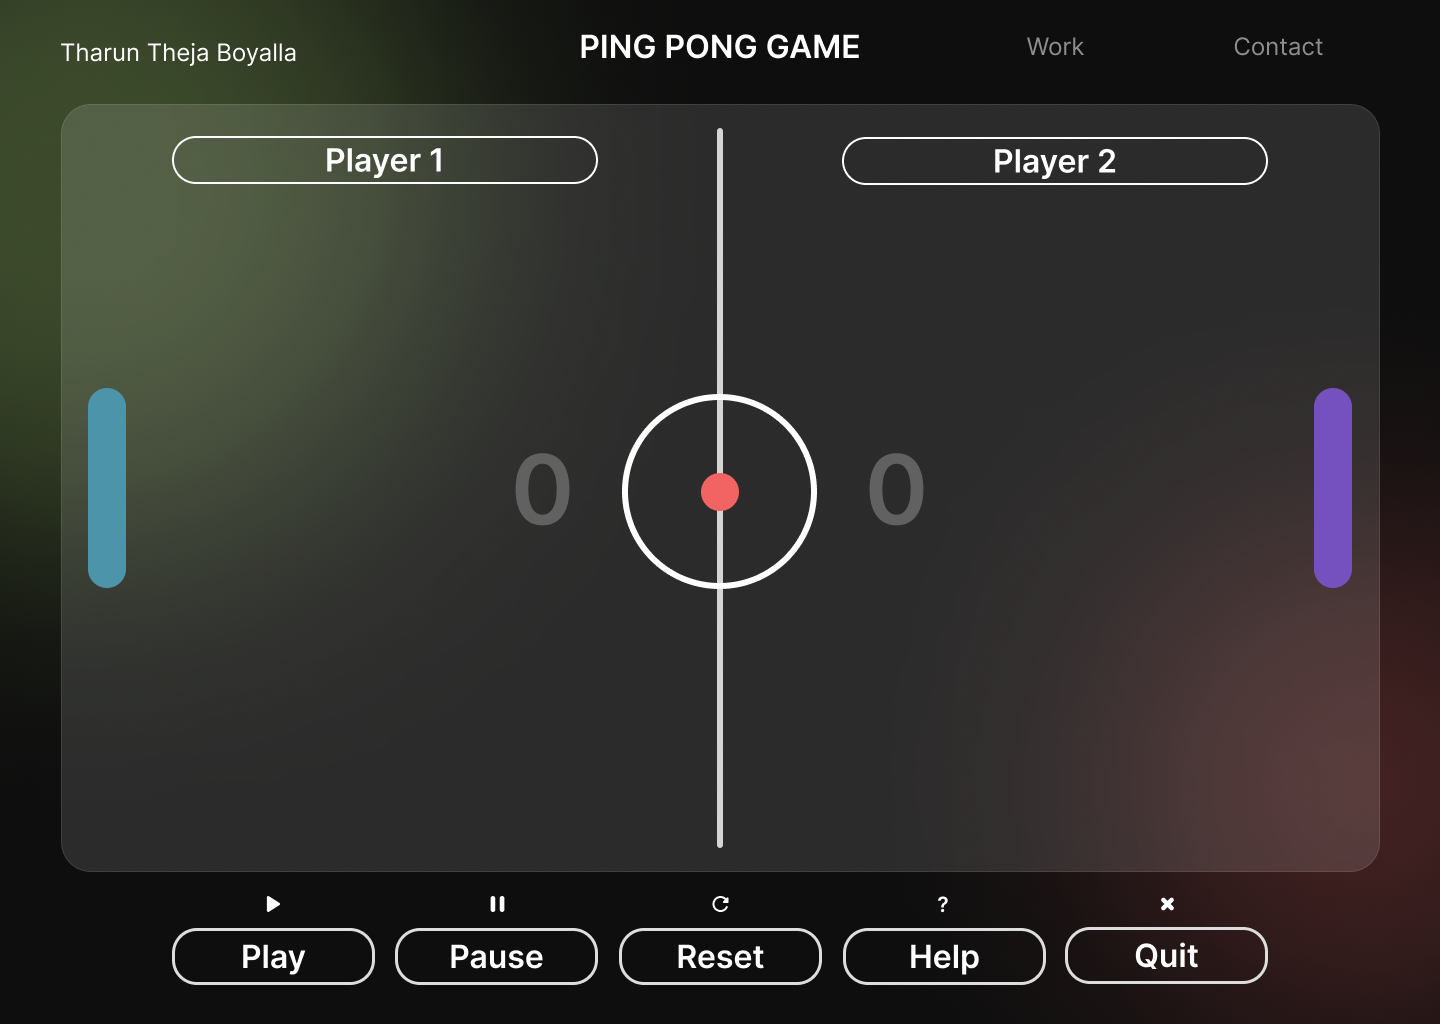
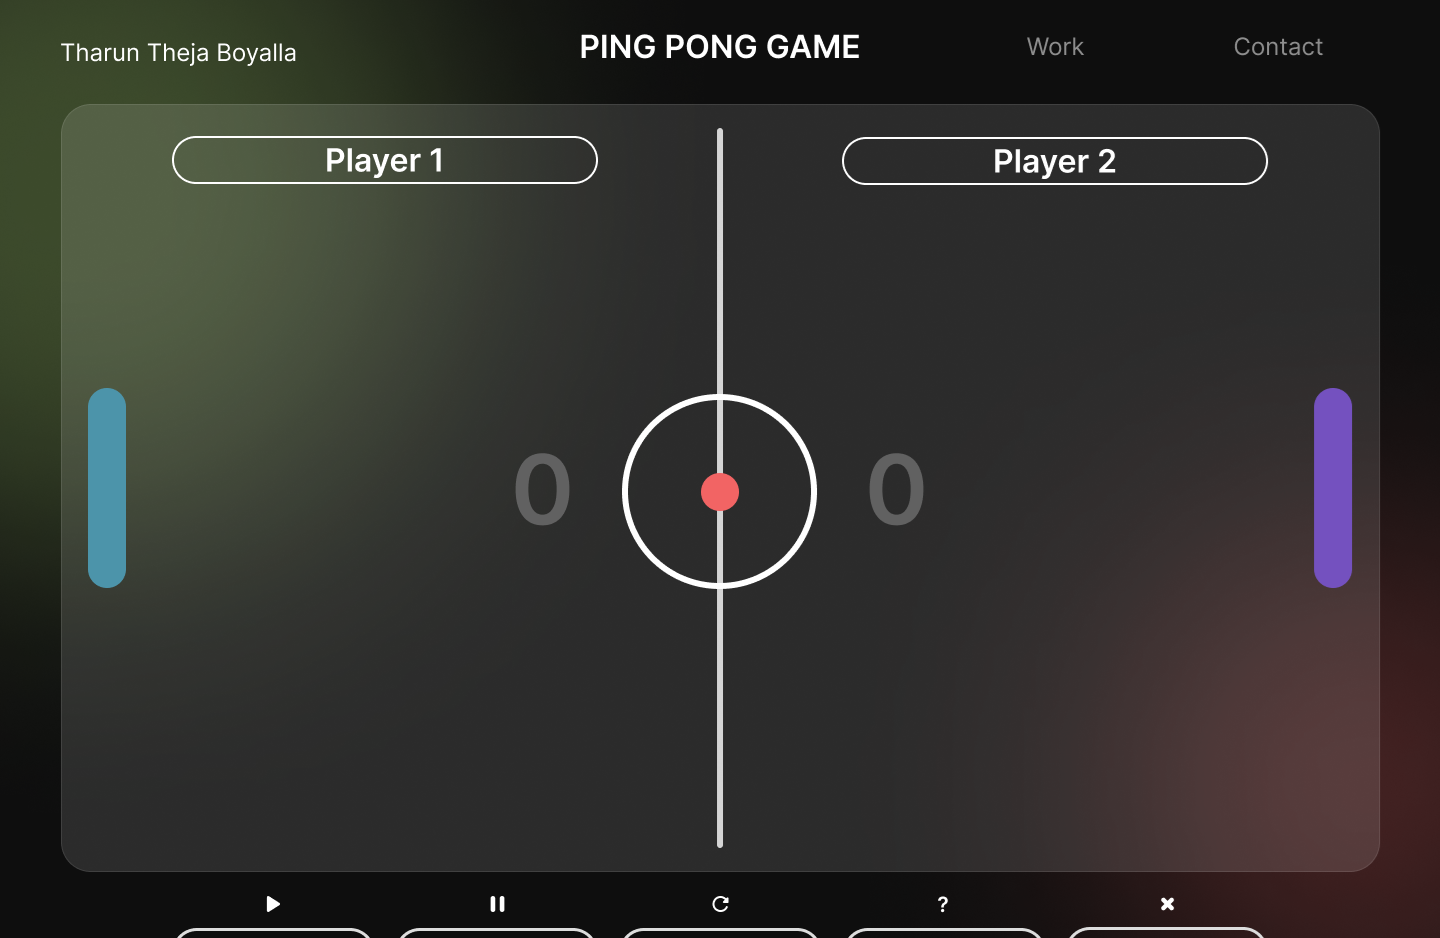
#18 Projects Functionality and Scroll to top

diff --git a/portfolio/src/Projects.jsx b/portfolio/src/Projects.jsx
@@ -1,8 +1,14 @@
-import React from "react";
+import React, { useState } from "react";
 import Heading from "./Heading";
 import Content from "./Content";
 
 function Projects({ projectsData }) {
+  const [selectedSection, setSelectedSection] = useState("Development");
+
+  // Handle dropdown change
+  const handleChange = (event) => {
+    setSelectedSection(event.target.value);
+  };
   return (
     <section className="w-full h-full py-10 sm:py-20 flex">
       <div className="w-full h-full flex flex-col items-center gap-11">
@@ -11,7 +17,12 @@ function Projects({ projectsData }) {
           <div className="w-full flex justify-end">
             <div className="h-8 w-[40%] sm:w-2xs px-4 flex justify-center items-center rounded-full bg-[#F4F4F4]">
               <Content>
-                <select id="filters" className="outline-0">
+                <select
+                  id="filters"
+                  className="outline-0"
+                  value={selectedSection}
+                  onChange={handleChange}
+                >
                   <option value="Development">Development</option>
                   <option value="Design">Design</option>
                   <option value="Video Editing">Video Editing</option>
@@ -19,58 +30,62 @@ function Projects({ projectsData }) {
               </Content>
             </div>
           </div>
-          <div className="w-full flex flex-col sm:grid grid-cols-2 relative gap-5 text-white">
-            {projectsData.map((project, index) => (
-              <div className="w-full grid grid-rows-2 ">
-                <div className="w-full h-full flex justify-center relative items-center rounded-tl-[20px] rounded-tr-[20px] overflow-hidden">
-                  <div className="w-full h-full relative">
-                    <img
-                      src={project.img}
-                      className="w-full h-full object-cover blur-[3px]"
-                      alt="Homepage"
-                    />
-                    <div className="w-full h-full bg-black opacity-45 absolute top-1/2 left-1/2 transform -translate-x-1/2 -translate-y-1/2"></div>
-                    <Heading
-                      key={index}
-                      className="absolute top-1/2 left-1/2 transform -translate-x-1/2 -translate-y-1/2 text-white text-xl font-bold"
-                    >
-                      {project.title}
-                    </Heading>
-                  </div>
-                </div>
-
-                <div
-                  className="w-full h-fit flex flex-col py-6 px-5 gap-5 rounded-bl-[20px] rounded-br-[20px]"
-                  style={{ backgroundColor: project.tilecolor }}
-                >
-                  <div className="w-11/12 sm:w-full md:w-[80%] xl:w-[60%] flex text-xs font-semibold justify-between">
-                    {project.info.map((info, index) => (
-                      <div
-                        key={index}
-                        className="w-24 h-9 flex justify-center items-center rounded-full"
-                        style={{ backgroundColor: project.subbuttoncolor }}
-                      >
-                        {info}
+          <div className="w-full h-full flex flex-col sm:grid grid-cols-2 relative gap-5 text-white">
+            {projectsData.map(
+              (project, index) =>
+                project.category === selectedSection && (
+                  <div className="w-full h-full grid grid-rows-[60%, 40%]">
+                    <div className="w-full  flex justify-center relative items-center rounded-tl-[20px] rounded-tr-[20px] overflow-hidden">
+                      <div className="w-full h-full relative">
+                        <img
+                          src={project.img}
+                          className="w-full h-full object-cover blur-[3px]"
+                          alt="Homepage"
+                        />
+                        <div className="w-full h-full bg-black opacity-45 absolute top-1/2 left-1/2 transform -translate-x-1/2 -translate-y-1/2"></div>
+                        <Heading
+                          key={index}
+                          className="absolute top-1/2 left-1/2 transform -translate-x-1/2 -translate-y-1/2 text-white text-xl font-bold"
+                        >
+                          {project.title}
+                        </Heading>
                       </div>
-                    ))}
-                  </div>
-                  <div className="w-full flex justify-between items-end">
-                    <Content key={index} className="text-justify w-10/12">
-                      {project.content}
-                    </Content>
+                    </div>
+
                     <div
-                      className="w-12 h-12 rounded-full p-3"
-                      style={{ backgroundColor: project.buttoncolor }}
+                      className="w-full h-fit flex flex-col py-6 px-5 gap-5 rounded-bl-[20px] rounded-br-[20px]"
+                      style={{ backgroundColor: project.tilecolor }}
                     >
-                      <img
-                        src="/src/assets/Vector.svg"
-                        className="w-full h-full"
-                      ></img>
+                      <div className="w-11/12 sm:w-full md:w-[80%] xl:w-[60%] flex text-xs font-semibold justify-between">
+                        {project.info.map((info, index) => (
+                          <div
+                            key={index}
+                            className="w-24 h-9 flex justify-center items-center rounded-full"
+                            style={{ backgroundColor: project.subbuttoncolor }}
+                          >
+                            {info}
+                          </div>
+                        ))}
+                      </div>
+                      <div className="w-full flex justify-between items-end">
+                        <Content key={index} className="text-justify w-10/12">
+                          {project.content}
+                        </Content>
+                        <div
+                          className="w-12 h-12 rounded-full p-3"
+                          style={{ backgroundColor: project.buttoncolor }}
+                          id="projectdetails"
+                        >
+                          <img
+                            src="/src/assets/Vector.svg"
+                            className="w-full h-full"
+                          ></img>
+                        </div>
+                      </div>
                     </div>
                   </div>
-                </div>
-              </div>
-            ))}
+                )
+            )}
           </div>
         </div>
       </div>

diff --git a/portfolio/src/App.jsx b/portfolio/src/App.jsx
@@ -43,20 +43,44 @@ function App() {
   ];
   const projects = [
     {
+      category: "Development",
       title: "Ping Pong Game",
-      info: ["Html, CSS, JS", "UI Design", "Development"],
+      info: ["Html, CSS, JS", "Development"],
       content:
-        "I created a fun, multiplayer Ping Pong game using HTML, Sass, and JavaScript. Players can choose their names and pick paddle colors, and the game runs smoothly on any device. It’s a simple yet engaging project that shows off my skills in front-end development and design.",
+        "I developed an interactive, multiplayer Ping Pong game using HTML, Sass, and JavaScript. This project allows players to personalize their experience by selecting their names and choosing paddle colors. The game is fully responsive, ensuring smooth gameplay across all devices. It’s a fun and engaging project that highlights my skills in front-end development, UI/UX design, and implementing real-time interactive features.",
       tilecolor: "#4FC977",
       buttoncolor: "#359254",
       subbuttoncolor: "rgba(51, 146, 84, 0.5)",
       img: "/src/assets/Homepage.png",
     },
     {
+      category: "Development",
       title: "Personal Portfolio",
       info: ["React + JS", "UI Design", "Development"],
       content:
-        "I created a fun, multiplayer Ping Pong game using HTML, Sass, and JavaScript. Players can choose their names and pick paddle colors, and the game runs smoothly on any device. It’s a simple yet engaging project that shows off my skills in front-end development and design.",
+        "I built a personal portfolio using React and Tailwind CSS to showcase my work and skills. The portfolio is fully responsive, with a sleek design that adapts seamlessly across devices. It features sections highlighting my projects, experience, and contact information, all designed with user experience in mind. This project demonstrates my proficiency in modern front-end development and UI design principles.",
+      tilecolor: "#1C1F58",
+      buttoncolor: "#363A8E",
+      subbuttoncolor: "rgba(54, 58, 142, 0.5)",
+      img: "/src/assets/Desktop.png",
+    },
+    {
+      category: "Design",
+      title: "Ping Pong Game",
+      info: ["UI Design"],
+      content:
+        "I designed a visually engaging and interactive multiplayer Ping Pong game with a sleek, user-friendly interface for desktop devices. Players can personalize their experience by selecting names and paddle colors, creating a unique feel. The design focuses on a clean, intuitive layout with vibrant colors, enhancing gameplay with smooth interactions and dynamic visuals.",
+      tilecolor: "#4FC977",
+      buttoncolor: "#359254",
+      subbuttoncolor: "rgba(51, 146, 84, 0.5)",
+      img: "/src/assets/Homepage.png",
+    },
+    {
+      category: "Design",
+      title: "Personal Portfolio",
+      info: ["UI Design"],
+      content:
+        "I designed a visually appealing personal portfolio with React and Tailwind CSS to showcase my work. The design features a clean, intuitive layout with sections for projects, experience, and contact. The user interface emphasizes simplicity, ensuring a seamless experience. The modern aesthetic offers a polished presentation across all devices.",
       tilecolor: "#1C1F58",
       buttoncolor: "#363A8E",
       subbuttoncolor: "rgba(54, 58, 142, 0.5)",

diff --git a/portfolio/src/Widgets.jsx b/portfolio/src/Widgets.jsx
@@ -1,14 +1,49 @@
-import React from "react";
+import React, { useEffect, useState } from "react";
 
 function Widgets() {
+  const [isVisible, setIsVisible] = useState(false);
+
+  const handleScroll = () => {
+    if (window.scrollY > 400) {
+      setIsVisible(true);
+    } else {
+      setIsVisible(false);
+    }
+  };
+
+  // Scroll to the top of the page
+  const scrollToTop = () => {
+    window.scrollTo({
+      top: 0,
+      behavior: "smooth",
+    });
+  };
+
+  useEffect(() => {
+    window.addEventListener("scroll", handleScroll);
+    return () => {
+      window.removeEventListener("scroll", handleScroll);
+    };
+  }, []);
   return (
-    <div className="bottom-10 flex justify-between sticky items-center">
-      <div className="rounded-full w-11 h-11 flex justify-center items-center bg-[#FFD857]">
+    <div
+      className="bottom-10 flex justify-between sticky items-center"
+      onClick={scrollToTop}
+    >
+      <div
+        className="rounded-full w-11 h-11 flex justify-center items-center bg-[#FFD857]"
+        id="themechange"
+      >
         <img src="/src/assets/light.svg"></img>
       </div>
-      <div className="rounded-full w-15 h-15 flex justify-center items-center  bg-[#D96F6F]">
-        <img src="/src/assets/uparrow.svg" className="invert w-7 h-7"></img>
-      </div>
+      {isVisible && (
+        <div
+          className="rounded-full w-15 h-15 flex justify-center items-center  bg-[#D96F6F]"
+          id="scrolltotop"
+        >
+          <img src="/src/assets/uparrow.svg" className="invert w-7 h-7"></img>
+        </div>
+      )}
     </div>
   );
 }

diff --git a/portfolio/src/Navbar.jsx b/portfolio/src/Navbar.jsx
@@ -3,18 +3,26 @@ import React from "react";
 
 function Navbar() {
   return (
-    <nav className="flex justify-between sticky top-10 backdrop-blur-xs">
-      <div className="w-auto">
+    <nav className="flex justify-between sticky top-10 backdrop-blur-xs items-center">
+      <div className="w-auto h-fit">
         <img
           src="/src/assets/Tharun theja Boyalla.svg"
           className="w-full h-full"
         ></img>
       </div>
-      <div>
+      <div className="w-auto h-fit">
         <div className="hidden gap-[8vw] sm:flex">
           <a>About</a>
           <a>Work</a>
           <a>Contact</a>
+        </div>
+        <div
+          className="flex flex-col gap-1.5 sm:hidden w-8 h-6 justify-center items-center"
+          id="hamburger"
+        >
+          <div className="bg-gray-700 w-full h-1.5 rounded-3xl"></div>
+          <div className="bg-gray-700 w-full h-1.5 rounded-3xl"></div>
+          <div className="bg-gray-700 w-full h-1.5 rounded-3xl"></div>
         </div>
       </div>
     </nav>

diff --git a/portfolio/src/index.css b/portfolio/src/index.css
@@ -1,3 +1,12 @@
 body {
   cursor: url(./assets/NewCursor.svg), auto;
 }
+
+select,
+option,
+a,
+#projectdetails,
+#scrolltotop,
+#themechange {
+  cursor: url(./assets/cursor-pointer.svg), auto; /* Custom cursor */
+}
